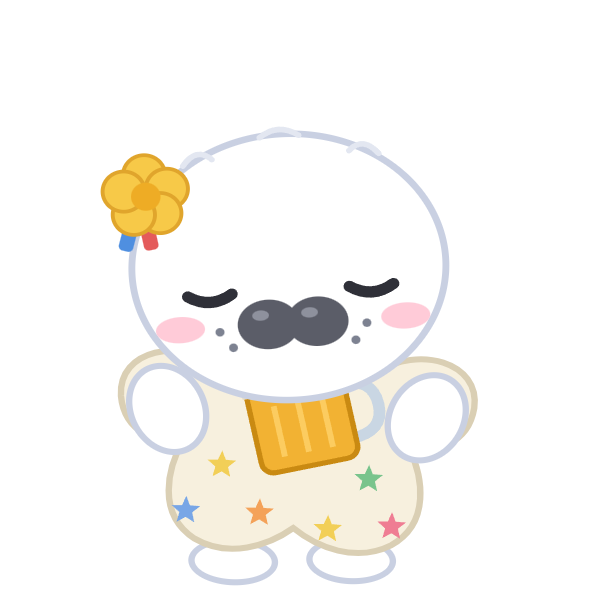
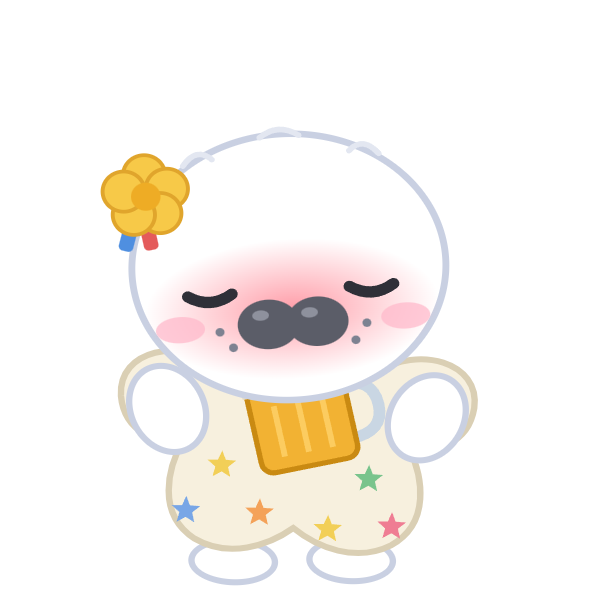
Version 2026-10-08.9 : Tino couché au lit, se déshabille pour dormir, rouge après une bière, accident de scooter

Changed region(s): [[0.3, 0.42, 0.69, 0.6]]

diff --git a/mascot.js b/mascot.js
@@ -63,6 +63,16 @@ const STYLE = `
 .ms-wind path:nth-child(3) { animation-delay: 0.3s; }
 @keyframes ms-wind { from { transform: translateX(8px); opacity: 0; } 30% { opacity: 1; } to { transform: translateX(-8px); opacity: 0; } }
 .ms-lid { transition: transform 0.35s ease-out; }
+/* Il dort couché : il enlève ses habits (la fleur revient même sous un chapeau) */
+.ms-wear-head, .ms-wear-body { transition: opacity 0.4s; }
+.ms-undressed .ms-wear-head, .ms-undressed .ms-wear-body { opacity: 0; }
+.ms-undressed .ms-flower { display: inline !important; }
+/* Vertige (après l'accident de scooter) : petites étoiles qui tournent au-dessus de sa tête */
+.ms-dizzy { opacity: 0; transform-box: fill-box; transform-origin: center; }
+.ms-dizzy-on .ms-dizzy { opacity: 1; animation: ms-spin 0.9s linear infinite; }
+/* Scooter accidenté : les roues s'arrêtent, plus de vent */
+.ms-crashed .ms-wheel { animation: none; }
+.ms-crashed .ms-wind { display: none; }
 .ms-prop.ms-done .ms-lid { transform: rotate(28deg); }
 .ms-scr-hero { animation: ms-hero 1.6s ease-in-out infinite; }
 .ms-scr-obs { animation: ms-obs 1.6s linear infinite; }
@@ -154,6 +164,8 @@ function sealSvg() {
     <ellipse cx="50" cy="36" rx="32" ry="28.5" fill="${fur}" stroke="${line}" stroke-width="1.4"/>
     <path d="M30 13Q33 9 36 12M46 8Q50 5 54 8M64 12Q67 9 70 13" fill="none" stroke="#e3e7f1" stroke-width="1.2" stroke-linecap="round"/>
     <g class="ms-face">
+      <radialGradient id="ms-flush-grad"><stop offset="0" stop-color="#ff5468" stop-opacity="0.9"/><stop offset="1" stop-color="#ff5468" stop-opacity="0"/></radialGradient>
+      <ellipse class="ms-flush" cx="50" cy="45" rx="30" ry="15" fill="url(#ms-flush-grad)" opacity="0"/>
       <g class="ms-cheeks" opacity="0.45"><ellipse cx="27" cy="48" rx="5" ry="2.8" fill="#ffb8ca"/><ellipse cx="73" cy="48" rx="5" ry="2.8" fill="#ffb8ca"/></g>
       <path d="M29 41Q33.5 44 38 41M62 41Q66.5 44 71 41" fill="none" stroke="#2f3038" stroke-width="2.4" stroke-linecap="round"/>
       <path class="ms-brows" d="M28 33.5L38 37M72 33.5L62 37" fill="none" stroke="#2f3038" stroke-width="2.3" stroke-linecap="round"/>
@@ -206,7 +218,7 @@ const BED = `<svg viewBox="0 0 ${BED_W} ${BED_H}" aria-hidden="true">
 </svg>`;
 // La couverture (devant Tino) : repère 100 × 158 (= ses proportions à l'écran, placeBed), posée sur le matelas, couvre
 // TOUT son corps, pieds compris, jusqu'au cou (pieds à gauche) ; le haut suit son corps couché avec de la marge (mesuré :
-// avant, bord trop bas à gauche → ses pieds et son corps dépassaient, vu par Tony) ; sa tête reste dehors.
+// avant, bord trop bas à gauche → ses pieds et son corps dépassaient) ; sa tête reste dehors.
 // Nageoires et pieds cachés dessous (classe ms-tucked).
 const BLANKET = `<svg viewBox="0 0 100 158" aria-hidden="true">
   <path d="M2 158V70Q2 46 22 40Q44 33 58 22Q70 10 82 10Q93 10 95 24L100.5 158Z" fill="#8fa0ee" stroke="#6f7fd0" stroke-width="2"/>
@@ -313,6 +325,7 @@ const FX = `<svg class="ms-fx" viewBox="0 0 100 100" aria-hidden="true">
   <g class="ms-bub-at"><g class="ms-bub" fill="rgba(200, 232, 255, 0.35)" stroke="#e6f5ff" stroke-width="1.1"><circle r="2.8"/><circle cx="4" cy="-1" r="1.9"/><circle cx="-2.5" cy="-2" r="1.5"/></g></g>
   <g class="ms-zzz-at"><g class="ms-zzz" fill="#d6e2ff" font-family="system-ui, sans-serif" font-weight="700"><text x="78" y="14" font-size="13">z</text><text x="88" y="3" font-size="10">z</text></g></g>
   <g class="ms-heart-at"><path class="ms-heart" d="M50 -2C47 -7 40 -5 41 0C42 4 50 9 50 9C50 9 58 4 59 0C60 -5 53 -7 50 -2Z" fill="#ff8fb3"/></g>
+  <g class="ms-dizzy-at"><g class="ms-dizzy">${star(-8, 0, 3, "#ffe27a")}${star(7, -3, 2.6, "#ffd23f")}${star(1, 6, 2.8, "#fff1a8")}</g></g>
   <g class="ms-anger-at"><g class="ms-anger" style="transform-box: fill-box; transform-origin: center"><path d="M-7 -2Q-2 -2 -2 -7M2 -7Q2 -2 7 -2M7 2Q2 2 2 7M-2 7Q-2 2 -7 2" fill="none" stroke="#ff4d5e" stroke-width="2.6" stroke-linecap="round"/></g></g>
 </svg>`;
 
@@ -359,6 +372,10 @@ const FOLLOW_MS = 200;  // la page a défilé et il n'est plus à l'écran : il 
 const GRAVITY = 2600;   // il tombe du haut de l'écran (px/s²)
 const GAME_END = 3.4;   // jeu vidéo : la fin de la partie (gagné / perdu, avec sa bannière) dure 3,4 s
 const YUM = 1.5;        // cuisine : c'est prêt, il sautille de joie pendant 1,5 s
+const RED_MS = 120000;  // après une bière, il reste rouge 2 min (heure réelle : même si l'app passe en arrière-plan)
+// Accident de scooter (une fois sur deux) : il pile (BRAKE), salto avant (FLIP) ; puis soit il s'écrase à plat ventre
+// (FLAT), se relève (GETUP), soit il rebondit (BOUNCES : durée, hauteur × sa taille) ; puis la tête lui tourne (DIZZY)
+const CRASH = { BRAKE: 0.14, FLIP: 0.72, FLAT: 1.3, GETUP: 0.5, DIZZY: 1.1, END: 78, BOUNCES: [[0.42, 0.45], [0.3, 0.18]] };
 
 // ---------- Les actions ----------
 // Une action = une entrée de ACTIONS ; en ajouter une = ajouter une entrée. Champs (tous facultatifs) :
@@ -399,6 +416,74 @@ function cooking(kind) {
       if (done) p.bob = -Math.abs(Math.sin(c * 9)) * m.size * 0.08;
     },
   };
+}
+
+// Accident de scooter : point d'atterrissage (sur sa plateforme et à l'écran), hauteur du salto (sans sortir de l'écran
+// par le haut) ; le scooter reste là où il s'est arrêté (prop.stay)
+function startCrash(m, a, me) {
+  const W = m.size, v = m.eng.v, lo = Math.max(me.x0, v.left + W * 0.5), hi = Math.min(me.x1, v.right - W * 0.5);
+  a.crashT = a.t; a.cx = m.x;
+  a.land = lo <= hi ? clamp(m.x + a.side * 1.55 * W, lo, hi) : m.x; // (devant le scooter, pas dessus)
+  a.land2 = lo <= hi ? clamp(a.land + a.side * 0.3 * W, lo, hi) : a.land; // (en rebondissant, il glisse encore un peu)
+  a.H = clamp(me.y - v.top - 1.7 * W, 0.2 * W, 0.95 * W);
+  if (m.prop?.act === a) { m.prop.x = m.x; m.prop.stay = true; }
+}
+function crashStep(m, a, me) {
+  const C = CRASH, u = a.t - a.crashT, W = m.size;
+  if (u < C.BRAKE) { m.x = a.cx; return false; } // il pile
+  if (u < C.BRAKE + C.FLIP) { // salto avant : de la selle jusqu'au sol, en arc
+    const s = (u - C.BRAKE) / C.FLIP;
+    m.x = lerp(a.cx, a.land, s);
+    m.y = me.y - PROPS.scooter.seat * W * (1 - s) - 4 * a.H * s * (1 - s);
+    return false;
+  }
+  const v = u - C.BRAKE - C.FLIP;
+  if (!a.bounce) { m.x = a.land; return v >= C.FLAT + C.GETUP + C.DIZZY; }
+  let t = v, x = a.land; // il rebondit (de plus en plus bas), en glissant jusqu'à land2
+  for (const [d, h] of C.BOUNCES) {
+    const x2 = x + (a.land2 - a.land) / C.BOUNCES.length;
+    if (t < d) { const s = t / d; m.x = lerp(x, x2, s); m.y = me.y - 4 * h * W * s * (1 - s); return false; }
+    t -= d; x = x2;
+  }
+  m.x = a.land2;
+  return t >= C.DIZZY;
+}
+function crashPose(m, a, p) {
+  const C = CRASH, u = a.t - a.crashT, W = m.size, c = m.clock, s = a.side, end = a.bounce ? 0 : C.END;
+  if (u < C.BRAKE) { // il pile : penché en avant sur la selle
+    p.bob = -PROPS.scooter.seat * W; p.rot = s * 22 * (u / C.BRAKE); p.sy = 0.97;
+    if (s > 0) { p.armR = -55; p.armL = 10; } else { p.armL = 55; p.armR = -10; }
+    return;
+  }
+  if (u < C.BRAKE + C.FLIP) { // salto avant (+ à plat ventre à la fin s'il s'écrase), nageoires qui moulinent
+    const e = smooth((u - C.BRAKE) / C.FLIP);
+    p.spin = s * (22 + (338 + end) * e);
+    p.armL = 70 + 35 * Math.sin(c * 28); p.armR = -(70 + 35 * Math.sin(c * 28 + 1)); p.footL = p.footR = 2.5; p.sy = 1.04; p.sx = 0.96;
+    return;
+  }
+  const v = u - C.BRAKE - C.FLIP, dizzy = (k) => { p.rot = 7 * Math.sin(c * 22) * k; p.head = 10 * Math.sin(c * 14) * k; p.dizzy = k > 0.15; };
+  if (a.bounce) {
+    let t = v, hit = 0, f = 1;
+    for (const [d] of C.BOUNCES) { if (t < d) { hit = Math.max(0, 1 - t / 0.1) * f; break; } t -= d; f *= 0.7; }
+    const bouncing = v < C.BOUNCES.reduce((x, [d]) => x + d, 0);
+    if (!bouncing) hit = Math.max(0, 1 - t / 0.1) * f;
+    p.sy = 1 - 0.28 * hit; p.sx = 1 + 0.2 * hit;
+    if (bouncing) { p.armL = 55 + 25 * Math.sin(c * 24); p.armR = -p.armL; }
+    else dizzy(1 - clamp(t / C.DIZZY, 0, 1));
+    return;
+  }
+  if (v < C.FLAT) { // à plat ventre, un peu écrasé ; les pieds s'agitent
+    const hit = Math.max(0, 1 - v / 0.22);
+    p.spin = s * (360 + end); p.sy = 0.86 - 0.12 * hit; p.sx = 1.08 + 0.08 * hit;
+    p.armL = 70; p.armR = -70; p.footL = 2 * Math.sin(c * 16); p.footR = -p.footL; p.dizzy = v > 0.25;
+    return;
+  }
+  if (v < C.FLAT + C.GETUP) { // il se relève
+    const e = smooth((v - C.FLAT) / C.GETUP);
+    p.spin = s * (360 + end * (1 - e)); p.sy = lerp(0.86, 1, e); p.sx = lerp(1.08, 1, e); p.bob = -Math.sin(Math.PI * e) * W * 0.08; p.dizzy = true;
+    return;
+  }
+  dizzy(1 - clamp((v - C.FLAT - C.GETUP) / C.DIZZY, 0, 1));
 }
 
 const ACTIONS = {
@@ -551,6 +636,8 @@ const ACTIONS = {
   sit: {
     weight: () => 9,
     make: () => [{ type: "sit", dur: rand(4, 8) }],
+    // (assis « pour rester » — appui long — : à la tombée de la nuit, il va dormir couché dans son lit, voir stayStep)
+    step: (m, a) => a.t >= a.dur || (!!a.stay && m.eng.night() && !m.bubble),
     sit: true,
     pose(m, a, p) { p.sy = 0.97 + 0.012 * Math.sin(m.clock * 2.4); p.sx = 1.02; p.armL = -24; p.armR = 24; p.head = 5 * Math.sin(m.clock * 0.7); },
   },
@@ -659,7 +746,14 @@ const ACTIONS = {
     weight: (m) => (!m.eng.meal() && minutesNow() >= 18 * 60 ? 5 : 0),
     make: () => [{ type: "beer", dur: rand(9, 13) }],
     sit: true,
-    step(m, a) { if (!a.hic && a.t > a.dur * 0.65) { a.hic = true; if (!m.bubble) m.say("hic! 🍺", { ms: 1400 }); } return a.t >= a.dur; },
+    step(m, a) {
+      if (a.t > 1.5) { // il a bu : rouge pendant 2 min (même s'il fait autre chose ensuite), d'autant plus qu'il a bu
+        if (Date.now() > m.redUntil) m.redMax = 0;
+        m.redUntil = Date.now() + RED_MS; m.redMax = Math.max(m.redMax, clamp(a.t / a.dur, 0, 1));
+      }
+      if (!a.hic && a.t > a.dur * 0.65) { a.hic = true; if (!m.bubble) m.say("hic! 🍺", { ms: 1400 }); }
+      return a.t >= a.dur;
+    },
     pose(m, a, p) {
       const c = m.clock, gulp = Math.max(0, Math.sin(c * 1.7)) ** 4, tipsy = clamp(a.t / a.dur, 0, 1);
       p.holdY = -7 * gulp; p.holdRot = -14 * gulp; p.head = -6 * gulp; p.armL = -50 - 10 * gulp; p.armR = 50 + 10 * gulp;
@@ -689,14 +783,22 @@ const ACTIONS = {
     },
   },
   // Balade en scooter : il monte sur la selle, accélère le long de sa ligne (vent, roues qui tournent), fait demi-tour au
-  // bout, revient, s'arrête et descend
+  // bout, revient, s'arrête et descend. Une fois sur deux (crash) : accident sur l'aller — le scooter pique du nez, il
+  // passe par-dessus le guidon en salto avant et s'écrase à plat ventre (puis se relève), ou rebondit (bounce) ; étoiles
+  // du vertige ; le scooter reste là où il s'est arrêté et s'efface. Pendant l'accident, il ne s'interrompt pas (busy).
   scooter: {
     weight: (m) => (!m.eng.night() && m.trip("scooter") ? (m.eng.meal() ? 0.5 : 7) : 0),
-    make: (m) => m.tripSteps("scooter"),
-    start(m, a) { m.setProp(a, "scooter"); a.x0 = m.x; a.leg = 0; a.legT = 0.5; },
-    step(m, a, dt) {
+    make(m) {
+      const steps = m.tripSteps("scooter"), a = steps[steps.length - 1];
+      if (a.type === "scooter") { a.crash = Math.random() < 0.5; a.bounce = Math.random() < 0.5; }
+      return steps;
+    },
+    start(m, a) { m.setProp(a, "scooter"); a.x0 = m.x; a.leg = 0; a.legT = 0.5; if (a.crash) a.crashAt ??= lerp(a.x0, a.x1, rand(0.45, 0.65)); },
+    step(m, a, dt, me) {
+      if (a.crashT != null) return crashStep(m, a, me);
       if (a.t < 0.5) return false; // il monte
       if (!a.ended) {
+        if (a.crash && !a.leg && (m.x - a.crashAt) * a.side >= 0) { startCrash(m, a, me); return false; } // boum
         const to = a.leg ? a.x0 : a.x1, d = to - m.x, s = 85 * (m.size / 40) * dt * Math.min(1, (a.t - a.legT) / 0.6); // il accélère
         if (Math.abs(d) > s) { m.x += Math.sign(d) * s; return false; }
         m.x = to;
@@ -706,8 +808,10 @@ const ACTIONS = {
       }
       return a.t >= a.endT + 0.7;
     },
-    look: (m, a) => a.side * LOOK,
+    look: (m, a) => (a.crashT != null && a.t - a.crashT > CRASH.BRAKE + CRASH.FLIP ? 0 : a.side * LOOK),
+    busy: (m, a) => a.crashT != null,
     pose(m, a, p) {
+      if (a.crashT != null) { crashPose(m, a, p); return; }
       const W = m.size, k = smooth(clamp(a.t / 0.45, 0, 1)) * (a.ended ? 1 - smooth(clamp((a.t - a.endT) / 0.5, 0, 1)) : 1), riding = a.t > 0.5 && !a.ended;
       p.bob = -PROPS.scooter.seat * W * k + (riding ? Math.sin(m.clock * 40) * 0.3 : 0); // assis sur la selle (ça vibre un peu)
       if (a.side > 0) { p.armR = -55 * k; p.armL = 10 * k; } else { p.armL = 55 * k; p.armR = -10 * k; }
@@ -813,7 +917,7 @@ class Mascot {
     this.el.mascot = this; // (pour les essais depuis la console : document.querySelector(".ms").mascot)
     this.el.innerHTML = `<div class="ms-in">${def.svg()}</div>${FX}`;
     this.inner = this.el.firstChild;
-    for (const k of ["head", "face", "cheeks", "flower", "arm-l", "arm-r", "foot-l", "foot-r", "zzz-at", "heart-at", "anger-at", "bub-at", "wear-head", "wear-body"]) this[k.replace("-", "_")] = this.el.querySelector(".ms-" + k);
+    for (const k of ["head", "face", "cheeks", "flush", "dizzy-at", "flower", "arm-l", "arm-r", "foot-l", "foot-r", "zzz-at", "heart-at", "anger-at", "bub-at", "wear-head", "wear-body"]) this[k.replace("-", "_")] = this.el.querySelector(".ms-" + k);
     this.holdG = this.el.querySelector(".ms-hold"); this.inHands = null; // ce qu'il tient devant lui (classe ms-hold-<nom>) — (this.hold : minuterie de l'appui long)
     this.taps = [];
     if (eng.outfit) this.wear(eng.outfit);
@@ -838,6 +942,7 @@ class Mascot {
     this.act = null; this.plan = [];
     // tête aplatie : flat (0 = normale, 1 = toute plate, < 0 = étirée en rebondissant), press = ce que le frottement demande
     this.flat = 0; this.flatV = 0; this.press = 0; this.rubT = -9; this.rubbed = false; this.down = null; this.petT = 0; this.cheekK = -1;
+    this.redUntil = 0; this.redMax = 0; this.flushK = 0; // rouge après une bière (heure réelle de fin, jusqu'à quel point) ; opacité affichée
     this.el.addEventListener("click", (ev) => this.tap(ev));
     // appui long → assis / debout (sans menu « copier l'image » du téléphone)
     this.el.addEventListener("contextmenu", (ev) => ev.preventDefault());
@@ -935,7 +1040,10 @@ class Mascot {
     const act = { type: kind, side: s.side, x1: s.x1 };
     return Math.abs(s.x - this.x) > 2 ? [{ type: "walk", x: s.x }, act] : [act];
   }
-  busy() { return !!ACTIONS[this.act?.type]?.busy; }
+  busy() { const b = ACTIONS[this.act?.type]?.busy; return typeof b === "function" ? !!b(this, this.act) : !!b; } // (scooter : seulement pendant l'accident)
+  // Ce qu'il fait quand on lui a demandé de rester (appui long) : assis le jour ; la nuit (et la sieste), couché dans son
+  // lit — jamais assis à côté du lit (« il dort debout malgré le lit » : sans doute un appui long en zoomant)
+  stayStep() { return this.eng.night() && !this.bubble ? { type: "nap", dur: Infinity, bed: true, stay: true } : { type: "sit", dur: Infinity, stay: true }; }
   // Fait faire une action tout de suite (ou juste après celle en cours si elle ne s'interrompt pas ; s'il nage, il sort de l'eau)
   now(steps) {
     if (!this.busy()) { this.plan = steps.slice(1); this.act = steps[0]; return; }
@@ -1026,7 +1134,7 @@ class Mascot {
       this.lastGrumble = pick(pool);
       this.say(this.lastGrumble, { ms: 3800 });
     }
-    const after = this.stay ? [{ type: "sit", dur: Infinity }] : [];
+    const after = this.stay ? [this.stayStep()] : [];
     if (this.act?.type === "swim") { this.act.leave = true; this.plan = [{ type: "angry", dur: 2.6 }, ...after]; return; } // il sort de l'eau, puis râle
     this.act = { type: "angry", dur: 2.6 }; // tout de suite, même s'il était occupé
     this.plan = after;
@@ -1034,7 +1142,7 @@ class Mascot {
 
   toggleStay() {
     this.stay = !this.stay;
-    this.now([this.stay ? { type: "sit", dur: Infinity } : { type: "react" }]);
+    this.now([this.stay ? this.stayStep() : { type: "react" }]);
     this.love();
   }
 
@@ -1078,7 +1186,7 @@ class Mascot {
   think() {
     const me = this.plat(), ctx = { plats: this.eng.plats, today: this.eng.today, lines: this.eng.lines() };
     if (!me) return { type: "idle", dur: 1 };
-    if (this.stay) return this.eng.night() && !this.bubble ? { type: "sleep", dur: Infinity } : { type: "sit", dur: Infinity };
+    if (this.stay) return this.stayStep();
     let name;
     if (this.bubble?.sticky) name = pick(CALM);
     else if (this.eng.night()) { // la nuit : dans la case d'aujourd'hui si elle est à l'écran, sinon là où il est ; couché, dans son lit
@@ -1145,7 +1253,8 @@ class Mascot {
     }
     // Le lit reste tant qu'il est dessus la nuit (un petit saut quand on le touche ne le fait pas disparaître)
     const moving = a && ["walk", "hop", "fly", "roll", "swim", "drop"].includes(a.type);
-    const onBed = this.eng.night() && !!this.bedAt && this.bedAt.k === this.k && Math.abs(this.bedAt.x - this.x) < 4 && !moving;
+    const inBed = !a || a.type === "nap" || ["react", "pet", "angry"].includes(a.type); // (réveillé — assis, debout — : pas de lit)
+    const onBed = this.eng.night() && !!this.bedAt && this.bedAt.k === this.k && Math.abs(this.bedAt.x - this.x) < 4 && !moving && inBed;
     this.bedK += ((onBed ? 1 : 0) - this.bedK) * Math.min(1, dt * 3);
     if (!onBed && this.bedK < 0.01) { this.bedK = 0; if (!this.eng.night()) this.bedAt = null; }
     // L'objet posé à côté de lui apparaît au début de l'action et s'efface quand elle est finie (ou interrompue : on le touche…)
@@ -1166,7 +1275,7 @@ class Mascot {
     const W = this.size, a = this.act ?? { type: "idle", t: 0 }, A = ACTIONS[a.type] ?? ACTIONS.idle, c = this.clock, u = W / 100, B = this.def.body;
     const breathe = Math.sin(c * 2.4);
     // (holdY / holdRot : ce qu'il tient devant lui monte et penche — une gorgée ; sip : niveau du matcha ; blush : joues rouges)
-    const p = { sx: 1 - 0.015 * breathe, sy: 1 + 0.025 * breathe, rot: 0, bob: 0, spin: 0, head: 2 * Math.sin(c * 0.9), armL: 0, armR: 0, footL: 0, footR: 0, holdY: 0, holdRot: 0, sip: 1, blush: 0 };
+    const p = { sx: 1 - 0.015 * breathe, sy: 1 + 0.025 * breathe, rot: 0, bob: 0, spin: 0, head: 2 * Math.sin(c * 0.9), armL: 0, armR: 0, footL: 0, footR: 0, holdY: 0, holdRot: 0, sip: 1, blush: 0, dizzy: false };
     if (a.t !== undefined) A.pose?.(this, a, p);
     // Couché sur le côté : tout le corps pivote, il respire lentement, les pattes se relâchent
     if (this.lie > 0.01) {
@@ -1206,8 +1315,14 @@ class Mascot {
     this.inner.style.transform = `translateY(${down.toFixed(2)}px)` + (p.spin ? ` translateY(${pivot.toFixed(2)}px) rotate(${p.spin.toFixed(1)}deg) translateY(${(-pivot).toFixed(2)}px)` : "")
       + ` rotate(${p.rot.toFixed(2)}deg) scale(${p.sx.toFixed(3)}, ${p.sy.toFixed(3)})`;
     this.head.style.transform = `rotate(${(p.head + look * 0.4).toFixed(2)}deg)` + (f ? ` scale(${(1 + 0.24 * f).toFixed(3)}, ${(1 - 0.42 * f).toFixed(3)})` : "");
-    const ck = Math.round(clamp(Math.max(f, p.blush), 0, 1) * 20); // il rougit quand on le frotte (et quand il boit une bière)
+    // Rouge : quand il boit une bière, et encore 2 min après (s'efface dans les 20 dernières secondes) ; joues aussi quand on le frotte
+    const red = Math.max(p.blush, this.redUntil ? this.redMax * clamp((this.redUntil - Date.now()) / 20000, 0, 1) : 0);
+    const ck = Math.round(clamp(Math.max(f, red), 0, 1) * 20);
     if (ck !== this.cheekK) { this.cheekK = ck; this.cheeks.setAttribute("opacity", (0.45 + 0.02 * ck).toFixed(2)); }
+    const fk = Math.round(red * 20);
+    if (fk !== this.flushK) { this.flushK = fk; this.flush.setAttribute("opacity", (0.045 * fk).toFixed(3)); }
+    this.el.classList.toggle("ms-undressed", !!A.zzz && this.lie > 0.5); // il dort couché : sans ses habits
+    this.el.classList.toggle("ms-dizzy-on", p.dizzy);
     this.face.style.transform = `translateX(${look.toFixed(2)}px) scaleX(${(1 - Math.abs(look) / 90).toFixed(3)})`;
     this.flower.style.transform = `translate(${(-look * 0.5).toFixed(2)}px, ${(Math.abs(look) * 0.15).toFixed(2)}px)`;
     this.arm_l.style.transform = `translateX(${(look * 0.2).toFixed(2)}px) rotate(${p.armL.toFixed(1)}deg)`;
@@ -1222,6 +1337,7 @@ class Mascot {
     this.zzz_at.style.transform = `translate(${zx.toFixed(1)}px, ${zy.toFixed(1)}px)`;
     this.heart_at.style.transform = `translate(${(nx - hx).toFixed(1)}px, ${(ny - hy).toFixed(1)}px)`;
     this.anger_at.style.transform = `translate(${(nx + 24).toFixed(1)}px, ${(ny - 23).toFixed(1)}px)`; // « 💢 » en haut de la tête
+    if (p.dizzy) this.dizzy_at.style.transform = `translate(${nx.toFixed(1)}px, ${(ny - 34).toFixed(1)}px)`; // étoiles au-dessus de la tête
     this.placeBubble((nx - 50) * u, (ny - 30) * u);
     this.placeBed(bw);
     this.placeProp();
@@ -1236,7 +1352,7 @@ class Mascot {
     if (!show) { this.bannerEl.style.visibility = "hidden"; return; }
     const D = PROPS[pr.kind], W = this.size, w = W * D.w, h = w * D.vb[1] / D.vb[0];
     if (this.propKind !== pr.kind) { this.propKind = pr.kind; this.propEl.innerHTML = D.svg; this.propFood = this.propEl.querySelector(".ms-food"); }
-    const near = (D.follow ? this.x : pr.x) + pr.side * W * D.gap, left = pr.side > 0 ? near : near - w; // (caddie, scooter : le suit)
+    const near = (D.follow && !pr.stay ? this.x : pr.x) + pr.side * W * D.gap, left = pr.side > 0 ? near : near - w; // (caddie, scooter : le suit ; accident : reste là)
     this.propEl.style.width = w.toFixed(1) + "px";
     this.propEl.style.height = h.toFixed(1) + "px";
     this.propEl.style.opacity = this.propK.toFixed(3);
@@ -1245,6 +1361,11 @@ class Mascot {
     this.propEl.classList.toggle("ms-win", over && !!a.win);
     this.propEl.classList.toggle("ms-lose", over && !a.win);
     this.propEl.classList.toggle("ms-done", pr.kind === "rice" && a.t > a.dur - YUM); // le riz est prêt : couvercle ouvert
+    if (pr.kind === "scooter") { // accident : il pique du nez (autour de la roue avant) et retombe ; roues arrêtées
+      const crashed = a.crashT != null, svg = this.propEl.firstElementChild, tilt = crashed ? 30 * Math.sin(Math.PI * clamp((a.t - a.crashT) / 0.55, 0, 1)) : 0;
+      this.propEl.classList.toggle("ms-crashed", crashed);
+      if (svg) { svg.style.transformOrigin = "79% 98%"; svg.style.transform = tilt ? `rotate(${tilt.toFixed(1)}deg)` : ""; }
+    }
     this.placeBanner(pr, over, near + pr.side * w / 2, P.y - Math.max(h, W) - 8);
     if (this.propFood && D.period) {
       const k = flipK(this.clock, D.period), up = Math.sin(Math.PI * k) * 13;
@@ -1480,8 +1601,9 @@ export function demoPose(box, kind, type, size, dir = 1, cell = Infinity, { loop
   box.style.position = "relative";
   box.style.width = box.style.height = size + "px";
   if (["game", "lose", "cook", "bbq", "rice", "shop"].includes(type)) box.style[dir > 0 ? "marginRight" : "marginLeft"] = size * 1.45 + "px"; // la place de l'objet
-  if (type === "scooter") box.style.margin = `0 ${size * 0.5}px`;
-  if (["shop", "scooter"].includes(type)) m.update = function (dt) { Mascot.prototype.update.call(this, dt); this.x = size / 2; }; // (avance sur place)
+  if (["scooter", "crash", "bounce"].includes(type)) box.style.margin = `0 ${size * 0.5}px`;
+  if (type === "tipsy") { m.redUntil = Date.now() + 1e9; m.redMax = 1; } // (rouge après une bière, pour toujours)
+  if (["shop", "scooter", "crash", "bounce"].includes(type)) m.update = function (dt) { Mascot.prototype.update.call(this, dt); this.x = size / 2; }; // (avance sur place)
   box.append(m.propEl, m.bedEl, m.el, m.blanketEl, m.bannerEl);
   m.k = "demo"; m.x = size / 2; m.y = size; m.dir = dir;
   if (type === "walk") m.update = function (dt) { this.clock += dt; this.act ??= { type: "walk", t: 0, x: this.x }; this.dir = dir; this.ease(dt); }; // marche sur place
@@ -1513,6 +1635,9 @@ export function demoPose(box, kind, type, size, dir = 1, cell = Infinity, { loop
     beer: { type: "beer", dur: 10 },
     shop: { type: "shop", side: dir, x1: m.x + dir * 1e9 },
     scooter: { type: "scooter", side: dir, x1: m.x + dir * 1e9 },
+    crash: { type: "scooter", side: dir, x1: m.x + dir * 1e9, crash: true, crashAt: m.x, bounce: false }, // (sur place : pas d'élan)
+    bounce: { type: "scooter", side: dir, x1: m.x + dir * 1e9, crash: true, crashAt: m.x, bounce: true },
+    tipsy: { type: "walk", x: m.x },
   }[type] ??{ type, dur: type === "wave" ? 2.2 : type === "nap" ? Infinity : 1 });
   if (!animate) return m;
   let last = performance.now();
@@ -1527,7 +1652,7 @@ export function demoPose(box, kind, type, size, dir = 1, cell = Infinity, { loop
 // PNG. Sert à l'app (images habillées du widget, 18_widget_scenes.sql) et à design/make-tino-widget.html (images de base
 // widget/tino/*.png). Une tenue doit être en adresses data: (une image SVG ne charge rien d'autre). Changer SCENES_V si
 // le dessin de Tino ou les scènes changent (les images habillées sont alors refaites ; refaire aussi les images de base).
-export const SCENES_V = 2;
+export const SCENES_V = 3;
 export const WIDGET_SCENES = [ // [nom, pose de demoPose, temps de l'action (s), réglages]
   ["sleep", "bed", 3], ["cook", "cook", 2.2], ["bbq", "bbq", 1], ["rice", "rice", 2], ["pho", "pho", 2, { chop: true }],
   ["matcha", "matcha", 4], ["beer", "beer", 7, { gulp: true }], ["game", "game", 2], ["shop", "shop", 1.5], ["scooter", "scooter", 1.5],

diff --git a/sw.js b/sw.js
@@ -1,7 +1,7 @@
 // Service worker de MeoPeo : l'app s'ouvre même sans réseau (ses fichiers sont gardés sur le téléphone).
 // ⚠ À CHAQUE publication d'une nouvelle version : changer VERSION, sinon les téléphones gardent l'ancienne.
 // Les données (Supabase : tâches, connexion, temps réel) ne passent JAMAIS par ce cache.
-const VERSION = "2026-10-08.8";
+const VERSION = "2026-10-08.9";
 const CACHE = "meopeo-" + VERSION;
 const SHELL = [
   "./", "index.html", "app.js", "mascot.js", "bigtino.js", "data.js", "config.js", "style.css", "manifest.webmanifest",
